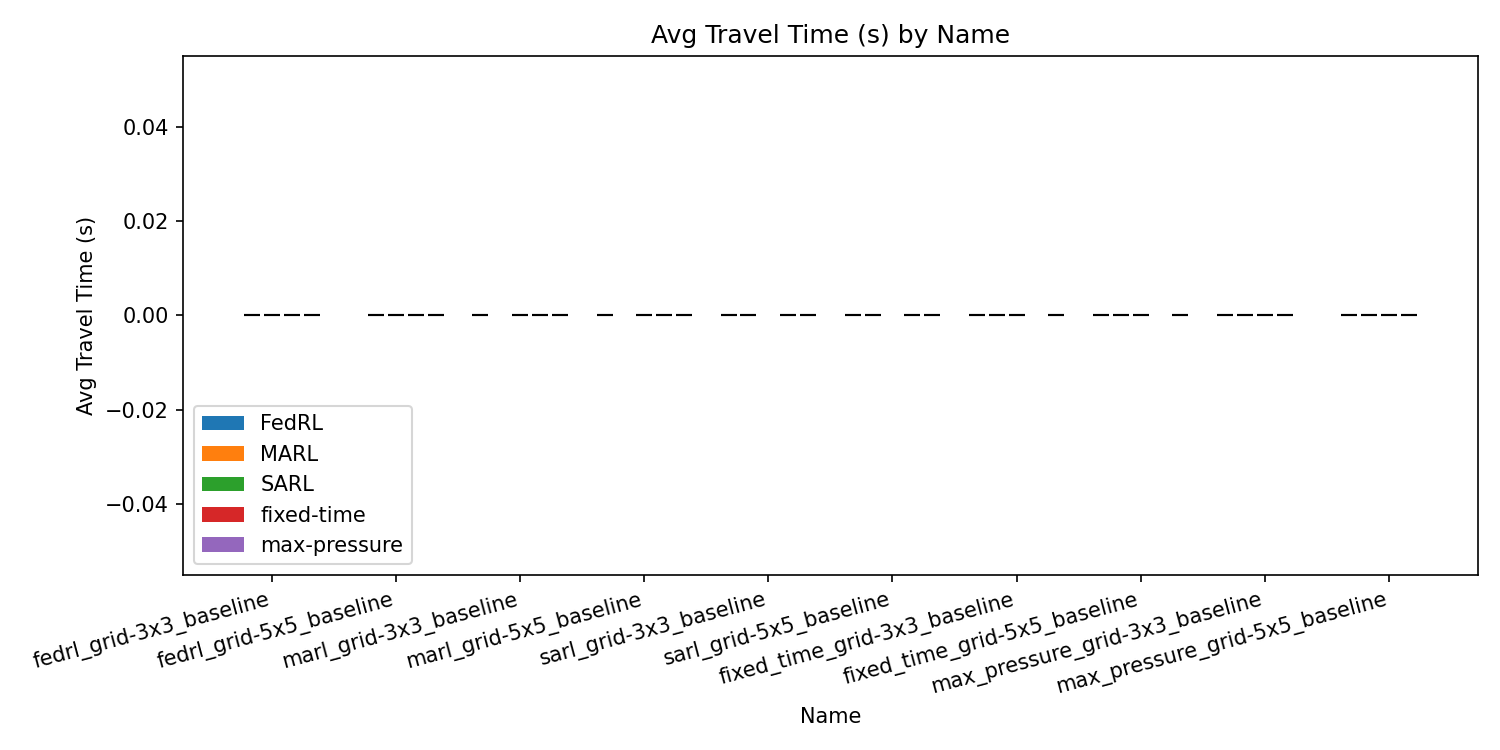
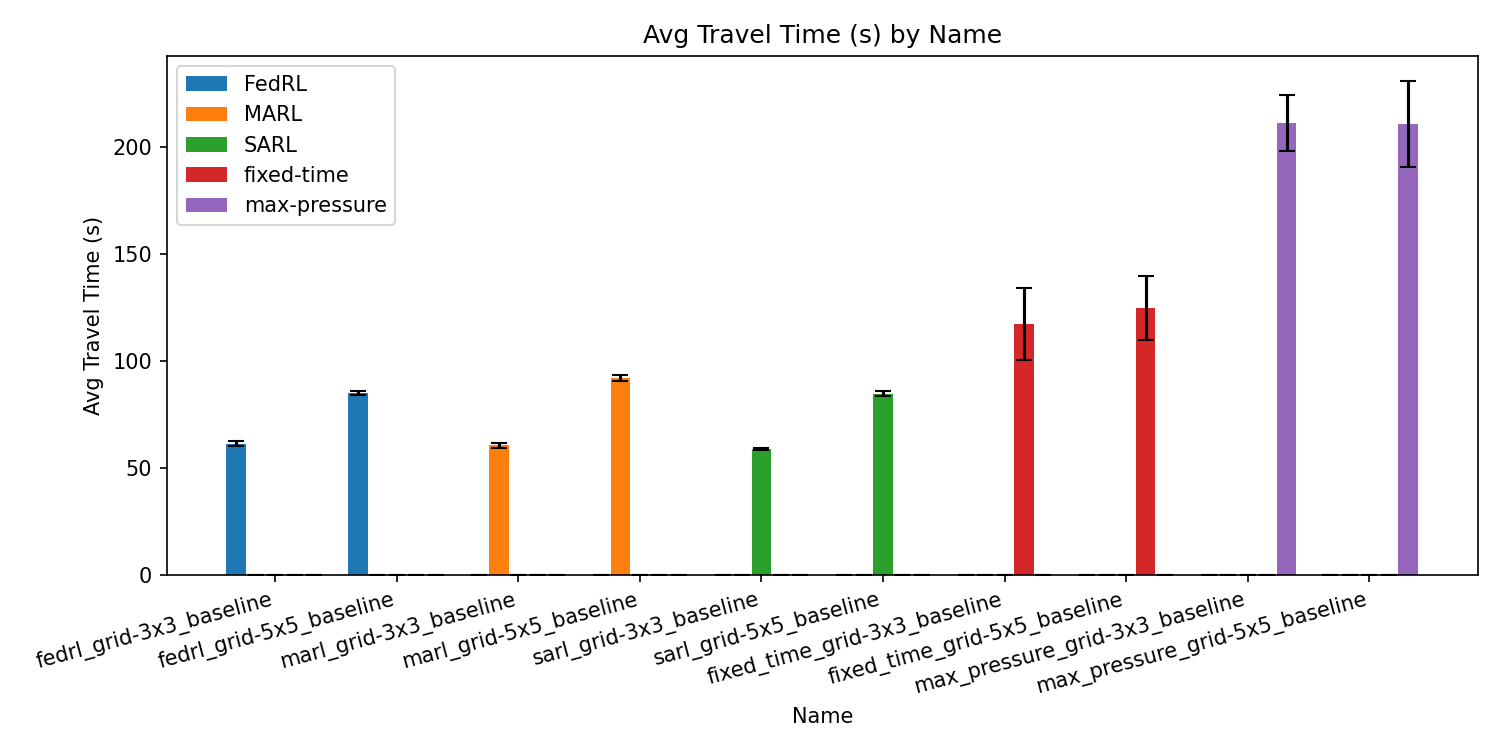
fix(08-02): unwrap campaign_to_dict serialization in results_to_dataframe and wilcoxon_compare
- results_to_dataframe expected evaluation.aggregated but actual structure is
  evaluation.campaign[0].aggregated (wrapped by campaign_to_dict)
- wilcoxon_compare had same bug: individual_results -> campaign[0].individual
- Both functions now handle both old flat format and new campaign-wrapped format
- Regenerated all 5 figures/tables with correct values (was all NaN before fix)

diff --git a/BackEnd/scripts/generate_tables.py b/BackEnd/scripts/generate_tables.py
@@ -93,7 +93,20 @@ def results_to_dataframe(campaign_results: list) -> pd.DataFrame:
             continue
 
         config = result.get("config", {})
-        agg = evaluation.get("aggregated", {})
+
+        # Unwrap campaign_to_dict serialization: evaluation may be
+        # {"campaign": [{..., "aggregated": {...}, ...}]} or a flat dict
+        # with "aggregated" directly (older format).
+        if "campaign" in evaluation and isinstance(evaluation["campaign"], list):
+            campaign_entries = evaluation["campaign"]
+            eval_entry = campaign_entries[0] if campaign_entries else {}
+            agg = eval_entry.get("aggregated", {})
+            n_completed = eval_entry.get("n_completed", 0)
+            n_failed = eval_entry.get("n_failed", 0)
+        else:
+            agg = evaluation.get("aggregated", {})
+            n_completed = evaluation.get("n_completed", 0)
+            n_failed = evaluation.get("n_failed", 0)
 
         def _mean(metric: str) -> float:
             return agg.get(metric, {}).get("mean", float("nan"))
@@ -116,8 +129,8 @@ def results_to_dataframe(campaign_results: list) -> pd.DataFrame:
             "mean_reward_std": _std("mean_reward"),
             "total_comm_cost_mean": _mean("total_comm_cost"),
             "total_comm_cost_std": _std("total_comm_cost"),
-            "n_completed": evaluation.get("n_completed", 0),
-            "n_failed": evaluation.get("n_failed", 0),
+            "n_completed": n_completed,
+            "n_failed": n_failed,
         })
 
     return pd.DataFrame(rows)
@@ -159,16 +172,32 @@ def wilcoxon_compare(
     _TRIPINFO_METRICS = {"avg_waiting_time", "avg_travel_time", "throughput"}
 
     def _extract_values(result: dict) -> list:
-        individual = result.get("evaluation", {}).get("individual_results", [])
+        eval_ = result.get("evaluation", {})
+        # Handle campaign_to_dict wrapped format: {"campaign": [{..., "individual": [...]}]}
+        if "campaign" in eval_ and isinstance(eval_["campaign"], list):
+            campaign_entries = eval_["campaign"]
+            entry = campaign_entries[0] if campaign_entries else {}
+            individual = entry.get("individual", entry.get("individual_results", []))
+        else:
+            individual = eval_.get("individual_results", eval_.get("individual", []))
         if metric in _TRIPINFO_METRICS:
             return [r["tripinfo"][metric] for r in individual if "tripinfo" in r]
         else:
             return [r[metric] for r in individual if metric in r]
 
+    def _n_completed(result: dict) -> int:
+        eval_ = result.get("evaluation", {})
+        if not eval_:
+            return 0
+        if "campaign" in eval_ and isinstance(eval_["campaign"], list):
+            entry = eval_["campaign"][0] if eval_["campaign"] else {}
+            return entry.get("n_completed", 0)
+        return eval_.get("n_completed", 0)
+
     eval_a = results_a.get("evaluation", {})
     eval_b = results_b.get("evaluation", {})
-    n_completed_a = eval_a.get("n_completed", 0) if eval_a else 0
-    n_completed_b = eval_b.get("n_completed", 0) if eval_b else 0
+    n_completed_a = _n_completed(results_a)
+    n_completed_b = _n_completed(results_b)
 
     if n_completed_a < 8 or n_completed_b < 8:
         values_a = _extract_values(results_a)

diff --git a/BackEnd/results/figures/table_avg_travel_time.tex b/BackEnd/results/figures/table_avg_travel_time.tex
@@ -2,15 +2,15 @@
 \toprule
 Configuration & FedRL & MARL & SARL & fixed-time & max-pressure \\
 \midrule
-fedrl_grid-3x3_baseline & nan $\pm$ nan & --- & --- & --- & --- \\
-fedrl_grid-5x5_baseline & nan $\pm$ nan & --- & --- & --- & --- \\
-marl_grid-3x3_baseline & --- & nan $\pm$ nan & --- & --- & --- \\
-marl_grid-5x5_baseline & --- & nan $\pm$ nan & --- & --- & --- \\
-sarl_grid-3x3_baseline & --- & --- & nan $\pm$ nan & --- & --- \\
-sarl_grid-5x5_baseline & --- & --- & nan $\pm$ nan & --- & --- \\
-fixed_time_grid-3x3_baseline & --- & --- & --- & nan $\pm$ nan & --- \\
-fixed_time_grid-5x5_baseline & --- & --- & --- & nan $\pm$ nan & --- \\
-max_pressure_grid-3x3_baseline & --- & --- & --- & --- & nan $\pm$ nan \\
-max_pressure_grid-5x5_baseline & --- & --- & --- & --- & nan $\pm$ nan \\
+fedrl_grid-3x3_baseline & 61.3 $\pm$ 1.6 & --- & --- & --- & --- \\
+fedrl_grid-5x5_baseline & 84.8 $\pm$ 1.5 & --- & --- & --- & --- \\
+marl_grid-3x3_baseline & --- & 60.6 $\pm$ 1.9 & --- & --- & --- \\
+marl_grid-5x5_baseline & --- & 92.1 $\pm$ 2.4 & --- & --- & --- \\
+sarl_grid-3x3_baseline & --- & --- & 58.8 $\pm$ 0.9 & --- & --- \\
+sarl_grid-5x5_baseline & --- & --- & 84.5 $\pm$ 1.9 & --- & --- \\
+fixed_time_grid-3x3_baseline & --- & --- & --- & 117.3 $\pm$ 27.1 & --- \\
+fixed_time_grid-5x5_baseline & --- & --- & --- & 124.6 $\pm$ 24.0 & --- \\
+max_pressure_grid-3x3_baseline & --- & --- & --- & --- & 211.1 $\pm$ 21.2 \\
+max_pressure_grid-5x5_baseline & --- & --- & --- & --- & 210.7 $\pm$ 32.5 \\
 \bottomrule
 \end{tabular}

diff --git a/BackEnd/results/figures/table_avg_waiting_time.tex b/BackEnd/results/figures/table_avg_waiting_time.tex
@@ -2,15 +2,15 @@
 \toprule
 Configuration & FedRL & MARL & SARL & fixed-time & max-pressure \\
 \midrule
-fedrl_grid-3x3_baseline & nan $\pm$ nan & --- & --- & --- & --- \\
-fedrl_grid-5x5_baseline & nan $\pm$ nan & --- & --- & --- & --- \\
-marl_grid-3x3_baseline & --- & nan $\pm$ nan & --- & --- & --- \\
-marl_grid-5x5_baseline & --- & nan $\pm$ nan & --- & --- & --- \\
-sarl_grid-3x3_baseline & --- & --- & nan $\pm$ nan & --- & --- \\
-sarl_grid-5x5_baseline & --- & --- & nan $\pm$ nan & --- & --- \\
-fixed_time_grid-3x3_baseline & --- & --- & --- & nan $\pm$ nan & --- \\
-fixed_time_grid-5x5_baseline & --- & --- & --- & nan $\pm$ nan & --- \\
-max_pressure_grid-3x3_baseline & --- & --- & --- & --- & nan $\pm$ nan \\
-max_pressure_grid-5x5_baseline & --- & --- & --- & --- & nan $\pm$ nan \\
+fedrl_grid-3x3_baseline & 15.4 $\pm$ 1.3 & --- & --- & --- & --- \\
+fedrl_grid-5x5_baseline & 19.2 $\pm$ 0.8 & --- & --- & --- & --- \\
+marl_grid-3x3_baseline & --- & 14.8 $\pm$ 1.5 & --- & --- & --- \\
+marl_grid-5x5_baseline & --- & 24.7 $\pm$ 1.3 & --- & --- & --- \\
+sarl_grid-3x3_baseline & --- & --- & 14.2 $\pm$ 0.8 & --- & --- \\
+sarl_grid-5x5_baseline & --- & --- & 19.8 $\pm$ 1.1 & --- & --- \\
+fixed_time_grid-3x3_baseline & --- & --- & --- & 76.9 $\pm$ 25.7 & --- \\
+fixed_time_grid-5x5_baseline & --- & --- & --- & 70.6 $\pm$ 22.7 & --- \\
+max_pressure_grid-3x3_baseline & --- & --- & --- & --- & 167.8 $\pm$ 20.6 \\
+max_pressure_grid-5x5_baseline & --- & --- & --- & --- & 152.3 $\pm$ 31.3 \\
 \bottomrule
 \end{tabular}
